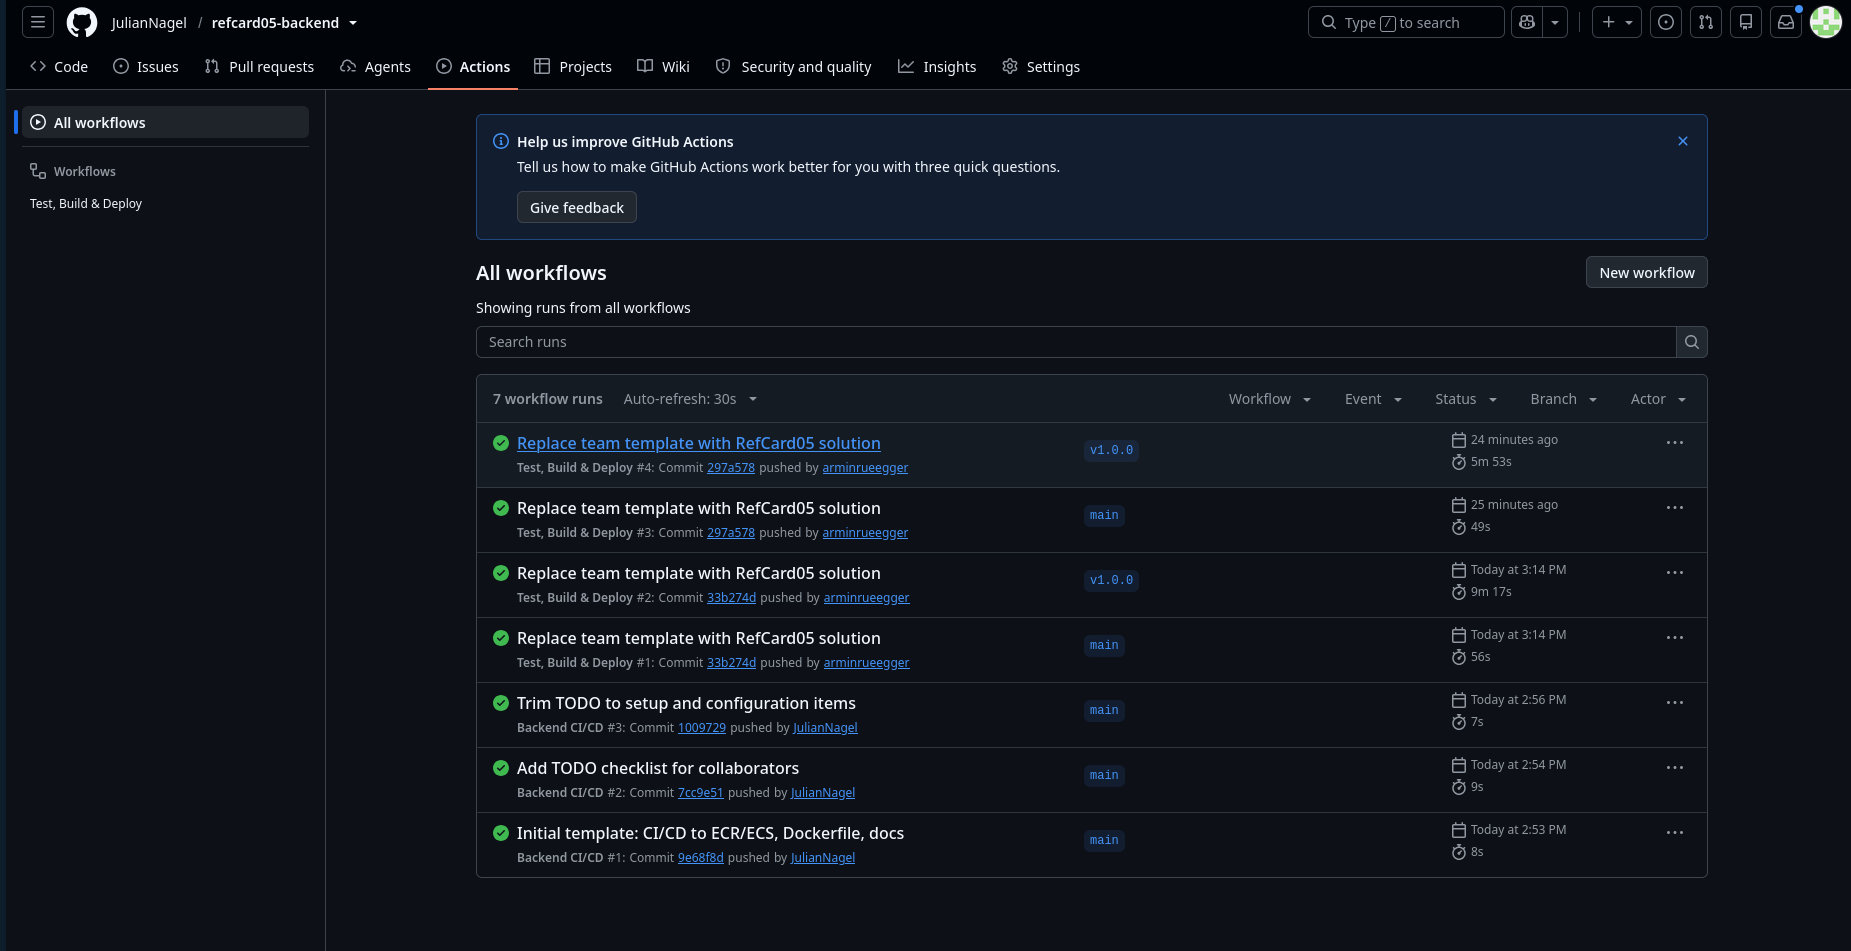
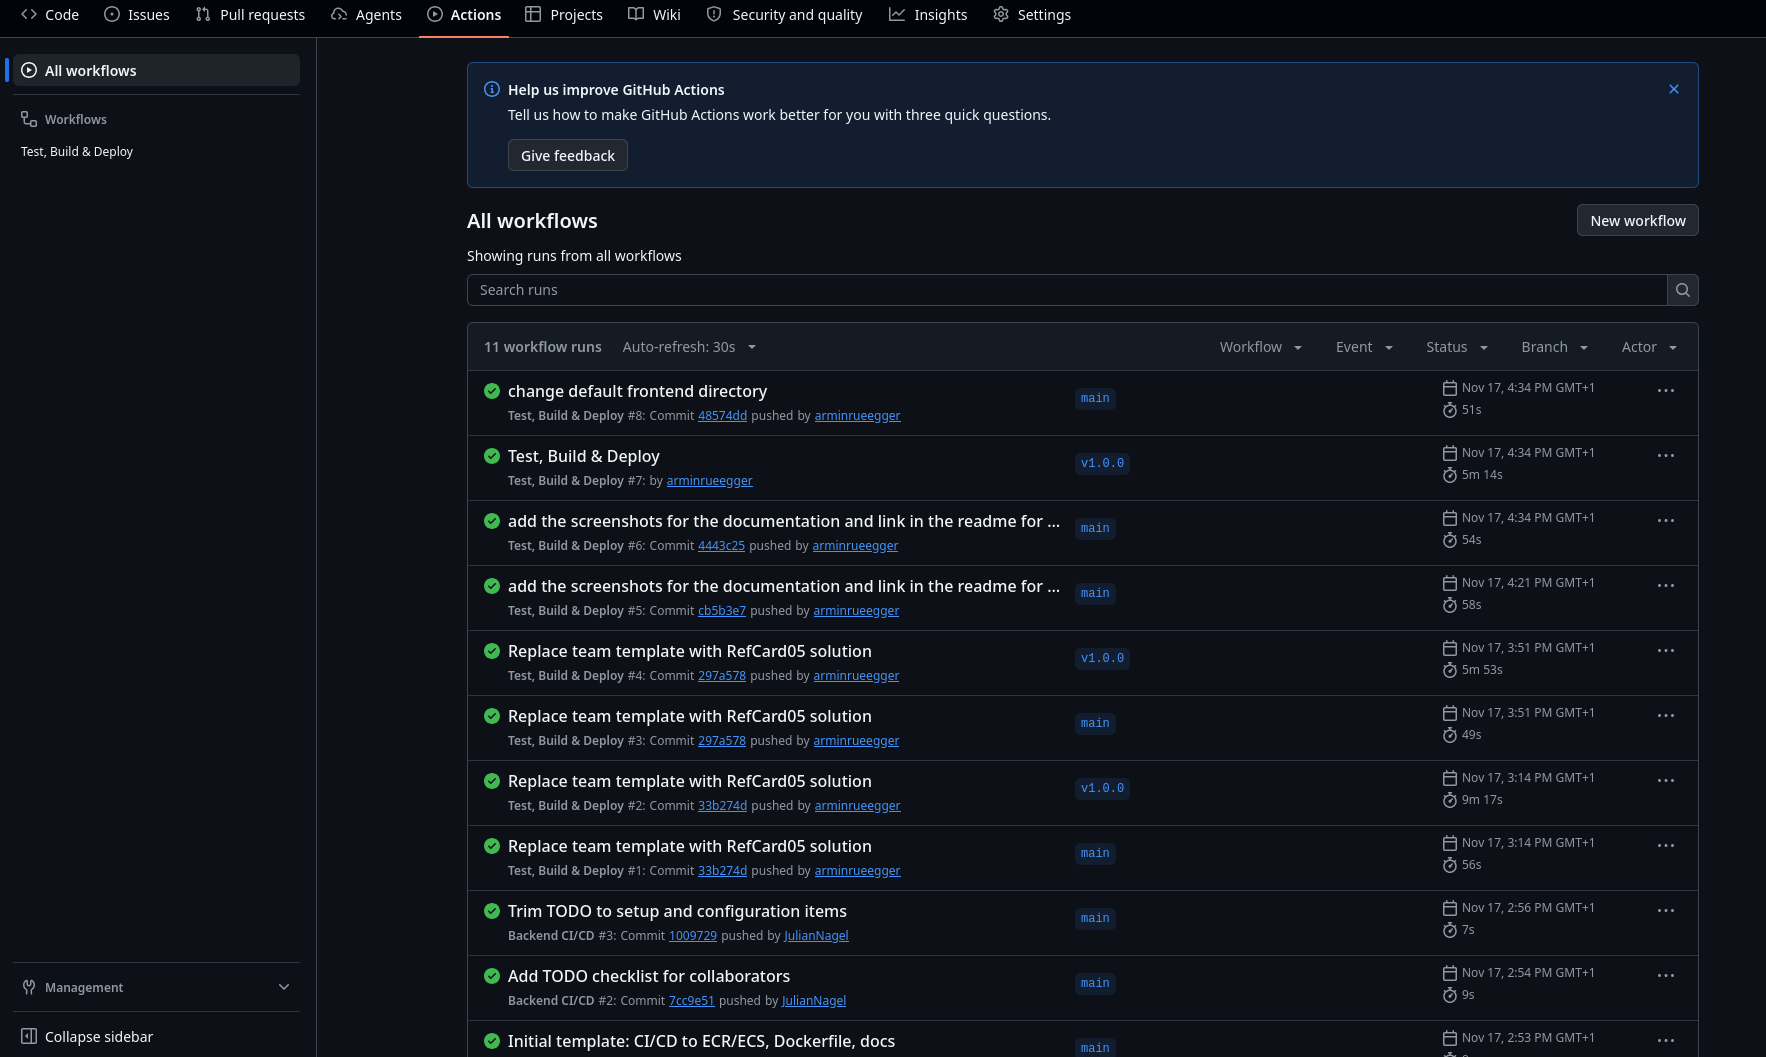
simplify docuemntation and also remake all the screenshots

diff --git a/docs/RefCard05.md b/docs/RefCard05.md
@@ -1,7 +1,4 @@
-# RefCard05 – Fullstack auf AWS (ECR, ECS, RDS, S3)
-
-Kurz gesagt: Frontend und Backend haben je ein eigenes Repo, eine eigene Pipeline, ein eigenes ECR-Repo und einen eigenen
-ECS-Service. Die Datenbank läuft auf RDS, Mitarbeiterfotos landen in S3. Ein Load Balancer (ALB) bündelt alles unter einer URL.
+# RefCard05 – Documentation
 
 - Backend: https://github.com/JulianNagel/refcard05-backend
 - Frontend: https://github.com/JulianNagel/refcard05-frontend
@@ -66,8 +63,6 @@ git push origin v1.0.0
 damit man in ECS sieht, welche Version läuft, und gezielt zurückrollen kann.
 `0.0.0` / `0.0.1` = einmalige Start-Images, lokal gepusht, damit die ECS-Services angelegt werden konnten (ab `v1.0.0` macht das die Pipeline).
 
-Der Tag `v1.0.0` landet als `1.0.0` in ECR, zusammen mit `sha-<commit>` (= Commit des Tags):
-
 ![ECR Backend](img/06-ecr-backend.png)
 ![ECR Frontend](img/07-ecr-frontend.png)
 
@@ -104,7 +99,7 @@ Der Tag `v1.0.0` landet als `1.0.0` in ECR, zusammen mit `sha-<commit>` (= Commi
 - `FileStorageService`: Ist `APP_STORAGE_S3_BUCKET` gesetzt, wird nach S3 geschrieben, sonst in einen lokalen Ordner (Tests, Compose).
   In der DB steht nur der Dateiname/S3-Key (UUID), nicht das Bild selbst.
 - Bucket `biztrips-photos-851725276744`: Public Access komplett blockiert.
-- Fehlerfälle: falscher Dateityp gibt `400`, fehlende S3-Rechte geben `502` mit AWS-Fehlercode statt eines Stacktraces.
+- Fehlerfälle beim Upload: falscher Dateityp gibt `400`, ein S3-Fehler (z. B. fehlende Rechte) gibt `502` mit AWS-Fehlercode statt eines Stacktraces.
 
 ```bash
 curl -F "file=@foto.jpg;type=image/jpeg" http://<alb>/v1/employees/1/photo
@@ -112,7 +107,7 @@ curl http://<alb>/v1/employees/1/photo -o foto-download.jpg
 aws s3 ls s3://biztrips-photos-851725276744/
 ```
 
-Das Foto liegt in S3 (hochgeladen 14:32) und hat mehrere Redeploys überlebt (Container ersetzt, Daten noch da):
+Das hochgeladene Foto liegt in S3 und hat mehrere Redeploys überlebt (Container ersetzt, Daten noch da):
 
 ![Foto in S3](img/12-s3-objects.png)
 
@@ -130,7 +125,7 @@ aws iam create-role --role-name biztrips-backend-s3-task-role ...
 
 Darum läuft der Backend-Task mit der vorgegebenen `LabRole` als `taskRoleArn`. Damit der Bucket trotzdem abgeschottet ist,
 schränkt eine **Bucket-Policy** ([`s3-bucket-policy.json`](s3-bucket-policy.json)) den Zugriff auf Objekte ein.
-Lesen und Schreiben dürfen nur `LabRole` (Backend) und `voclabs` (mein Lab-User für Kontrolle und Screenshots), alle anderen werden per `Deny` blockiert.
+Lesen und Schreiben dürfen nur `LabRole` (Backend) und `voclabs` (Lab-User, zur Kontrolle), alle anderen werden per `Deny` blockiert.
 
 ---
 
@@ -220,27 +215,3 @@ docker compose -f compose/docker-compose.yml up --build
 - Stoppen mit `docker compose -f compose/docker-compose.yml down` (`-v` löscht zusätzlich die Daten).
 
 ![docker compose ps](img/21-compose-ps.png)
-
----
-
-## Aufräumen (Lab-Budget!)
-
-RDS, ALB und Fargate kosten auch dann, wenn niemand die App benutzt. Nach der Bewertung:
-
-```bash
-aws ecs update-service --cluster biztrips-cluster --service biztrips-backend-service  --desired-count 0
-aws ecs update-service --cluster biztrips-cluster --service biztrips-frontend-service --desired-count 0
-aws rds stop-db-instance --db-instance-identifier biztrips-db   # startet nach 7 Tagen automatisch wieder
-```
-
-## Screenshot-Checkliste
-
-- [ ] Commits (beide Repos) + Git-Tags
-- [x] Workflow-Runs grün (Push auf `main` = Test + Build, Tag `v1.0.0` = mit Deploy)
-- [x] ECR: beide Repos mit Versions-Tags
-- [x] ECS: Cluster, beide Services „Running“, Task-Definition-Revisionen
-- [x] RDS-Instanz „Available“
-- [x] S3-Bucket mit Foto
-- [x] App im Browser über die ALB-URL
-- [ ] GitHub → Settings → Secrets (nur Namen sichtbar)
-- [x] Lokal: `docker compose ps` (db + backend healthy, frontend läuft)
